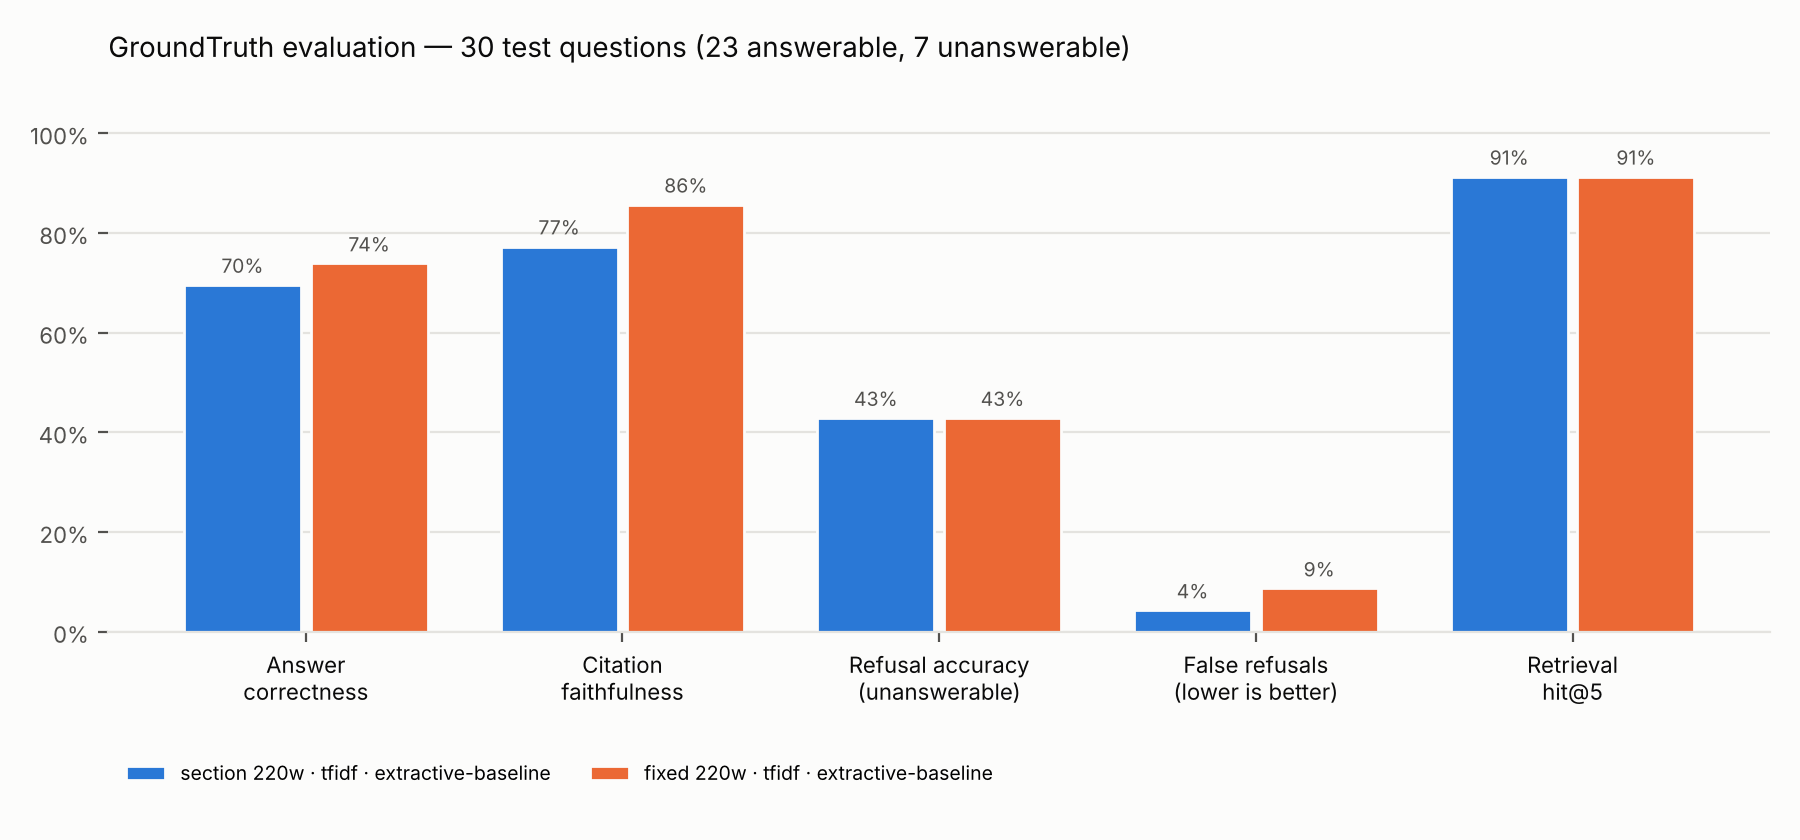
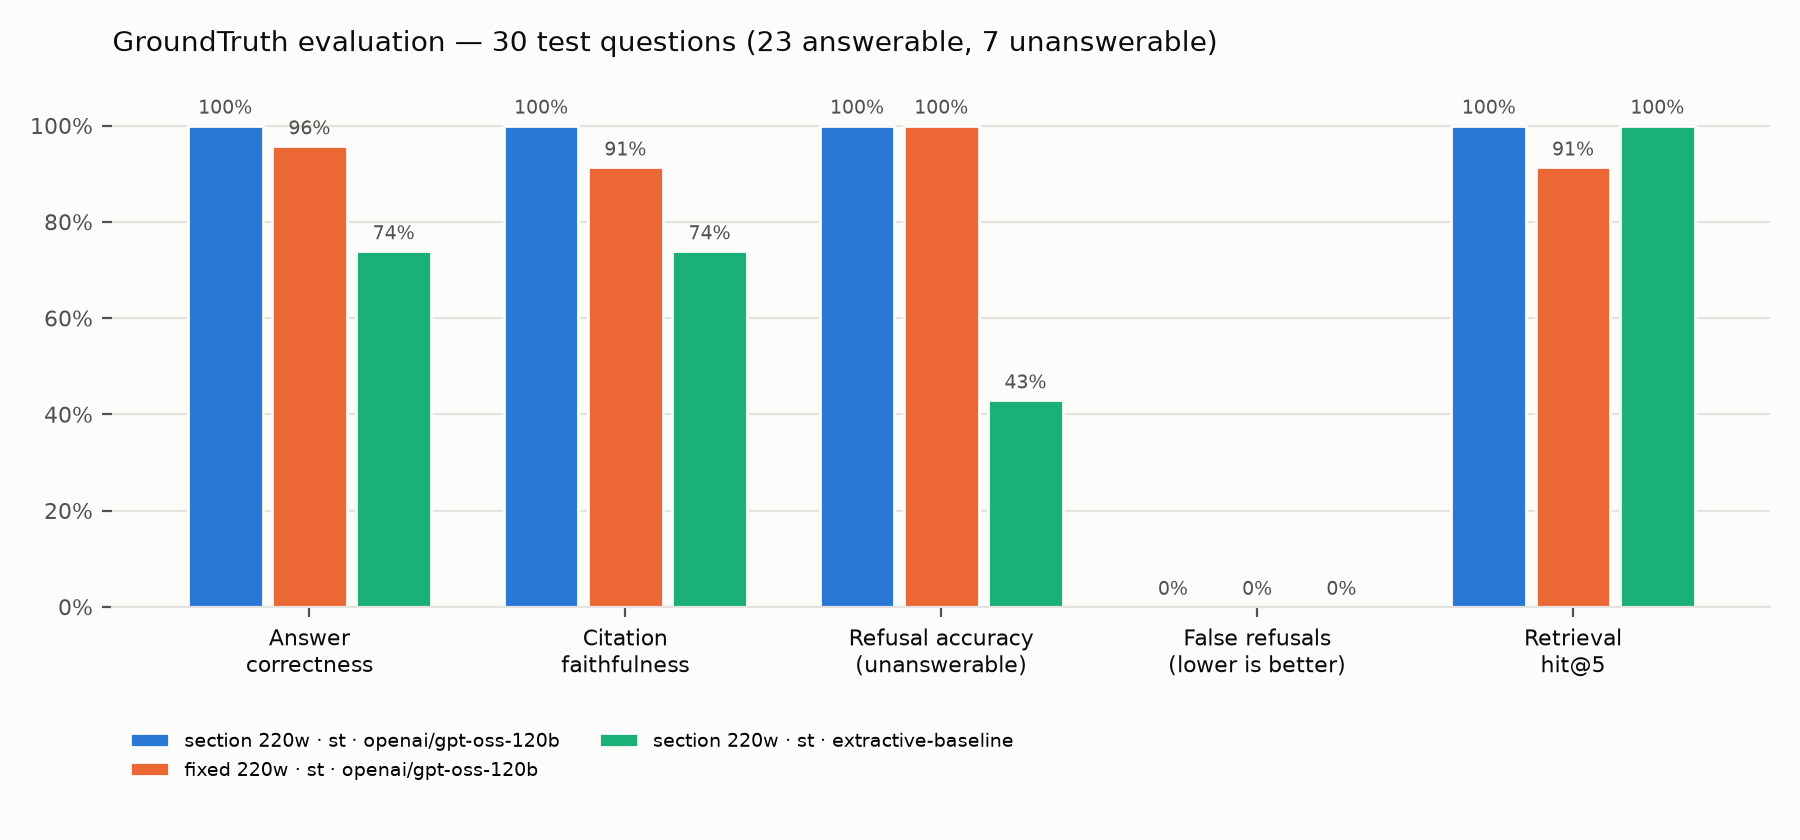
Demo verified, eval results

diff --git a/groundtruth/llm.py b/groundtruth/llm.py
@@ -8,6 +8,7 @@
 """
 from __future__ import annotations
 
+import re
 import time
 
 import requests
@@ -29,12 +30,15 @@ class BaseLLM:
         raise NotImplementedError
 
 
-def _post_with_retry(url, headers, payload, timeout, tries=3):
+def _post_with_retry(url, headers, payload, timeout, tries=8):
+    """Retry network errors and rate limits (HTTP 429), waiting as long as the
+    provider asks. Free tiers like Groq's cap tokens per minute."""
     last = None
     for attempt in range(tries):
+        wait = min(60, 2 ** attempt)
         try:
             r = requests.post(url, headers=headers, json=payload, timeout=timeout)
-        except requests.RequestException as e:  # network blip
+        except requests.RequestException as e:
             last = e
         else:
             if r.status_code < 400:
@@ -42,7 +46,10 @@ def _post_with_retry(url, headers, payload, timeout, tries=3):
             last = LLMError(f"HTTP {r.status_code}: {r.text[:300]}")
             if r.status_code not in (408, 429, 500, 502, 503, 504):
                 break
-        time.sleep(2 ** attempt)
+            m = re.search(r"try again in ([\d.]+)(ms|s)", r.text)
+            if m:
+                wait = float(m.group(1)) / (1000 if m.group(2) == "ms" else 1) + 1
+        time.sleep(wait)
     raise LLMError(str(last))
 
 

diff --git a/groundtruth/rag.py b/groundtruth/rag.py
@@ -98,6 +98,15 @@ def parse_citations(text: str, k: int) -> list[int]:
     return seen
 
 
+
+def normalize_citations(text: str) -> str:
+    """Models cite in different styles: 【1】, [1†L3-L5], [Passage 1], [Source 2].
+    Rewrite them all to [n] so the citation gate and the UI treat them the same."""
+    text = re.sub(r"【\s*(\d+)[^】]*】", r"[\1]", text)
+    text = re.sub(r"\[(\d+)†[^\]]*\]", r"[\1]", text)
+    text = re.sub(r"\[(?:passage|source|doc(?:ument)?)\s*#?(\d+)[^\]]*\]", r"[\1]", text, flags=re.I)
+    return text
+
 def is_refusal(text: str) -> bool:
     return bool(_IDK_RE.match(text.strip()))
 
@@ -193,6 +202,7 @@ class GroundTruth:
         user = f"Passages:\n\n{format_passages(hits)}\n\nQuestion: {question}"
         try:
             raw = self.llm.complete(SYSTEM_PROMPT, user)
+            raw = normalize_citations(raw)
         except LLMError as e:
             return done(f"{IDK} (The language model could not be reached: {e})", True,
                         "llm_error", str(e))

diff --git a/eval/make_questions.py b/eval/make_questions.py
@@ -141,7 +141,7 @@ TEST = [
     dict(id="t23", question="What counts as a 'large team gathering' that needs the event request process instead of an approval email?",
          answerable=True, category="single_fact", stakes="medium",
          reference="Over 6 employees traveling for an internal management meeting and/or more than $10,000 in estimated group travel expenses.",
-         key_facts=[["6"], ["10,000", "10000", "$10k"]],
+         key_facts=[["6", "six"], ["10,000", "10000", "$10k"]],
          evidence=["over 6 employees traveling for an internal management meeting"], source="travel-guide-faq.md"),
 
     # ---------------------------------------------------- unanswerable ----

diff --git a/eval/results/report.md b/eval/results/report.md
@@ -2,17 +2,17 @@
 
 Test set: 30 hand-written questions (23 answerable, 7 deliberately unanswerable), written before looking at model output. Definitions are in `groundtruth/evaluation.py`.
 
-| Metric | `test-section220-tfidf-nollm` | `test-fixed220-tfidf-nollm` |
-|---|---|---|
-| answer_correctness | 0.696 | 0.739 |
-| citation_faithfulness | 0.773 | 0.857 |
-| refusal_accuracy | 0.429 | 0.429 |
-| false_refusal_rate | 0.043 | 0.087 |
-| retrieval_hit@5 | 0.913 | 0.913 |
-| sentence_support_rate | 1.0 | 1.0 |
-| mrr | 0.775 | 0.79 |
-| harm_weighted_error | 0.333 | 0.302 |
-| avg_latency_s | 0.0 | 0.0 |
+| Metric | `test-section220-main` | `test-fixed220-baseline` | `test-section220-nollm` |
+|---|---|---|---|
+| answer_correctness | 1.0 | 0.957 | 0.739 |
+| citation_faithfulness | 1.0 | 0.913 | 0.739 |
+| refusal_accuracy | 1.0 | 1.0 | 0.429 |
+| false_refusal_rate | 0.0 | 0.0 | 0.0 |
+| retrieval_hit@5 | 1.0 | 0.913 | 1.0 |
+| sentence_support_rate | 1.0 | 0.978 | 1.0 |
+| mrr | 0.837 | 0.797 | 0.837 |
+| harm_weighted_error | 0.0 | 0.032 | 0.317 |
+| avg_latency_s | 5.61 | 9.68 | 0.07 |
 
 ![metrics](metrics.png)
 
@@ -22,6 +22,12 @@ Test set: 30 hand-written questions (23 answerable, 7 deliberately unanswerable)
 
 | Embedder | Chunker | Size (words) | Chunks | Hit@1 | Hit@3 | Hit@5 | MRR | AUROC | Missed |
 |---|---|---|---|---|---|---|---|---|---|
+| st | fixed | 120 | 251 | 56% | 87% | 87% | 0.70 | 0.93 | t18,t20,t22 |
+| st | fixed | 220 | 118 | 70% | 91% | 91% | 0.80 | 0.82 | t18,t20 |
+| st | fixed | 400 | 64 | 56% | 78% | 87% | 0.67 | 0.86 | t11,t19,t20 |
+| st | section | 120 | 254 | 74% | 100% | 100% | 0.86 | 0.96 | — |
+| st | section | 220 | 178 | 70% | 96% | 100% | 0.84 | 0.96 | — |
+| st | section | 400 | 148 | 74% | 96% | 100% | 0.86 | 0.99 | — |
 | tfidf | fixed | 120 | 251 | 70% | 78% | 83% | 0.74 | 0.92 | t15,t16,t18,t20 |
 | tfidf | fixed | 220 | 118 | 70% | 91% | 91% | 0.79 | 0.91 | t18,t20 |
 | tfidf | fixed | 400 | 64 | 83% | 91% | 96% | 0.87 | 0.92 | t20 |
@@ -33,35 +39,31 @@ Test set: 30 hand-written questions (23 answerable, 7 deliberately unanswerable)
 
 ## Failure log
 
-### Failures — `test-section220-tfidf-nollm`
+### Failures — `test-section220-main`
 
 | ID | Outcome | Question | What it said | Top score |
 |---|---|---|---|---|
-| t02 | wrong_answer | I've been a federal employee for 5 years. How much annual leave do I earn each pay period? | You will earn 56 more annual leave hours (14 pay periods x 4 hours per pay period). [2] You earn 4 annual leave hours per pay period and there are 14 pay period… | 0.367 |
-| t09 | wrong_answer | If I'm approved for administrative leave to vote on election day, what is the maximum amount of time I can take? | In rare circumstances, authorized agency officials may approve limited amounts of administrative leave on election day when there is no reasonable opportunity f… | 0.3113 |
-| t11 | wrong_answer | When does regular comp time expire, and what happens to it if I leave GSA? | If you leave GSA, any unused travel comp time will be forfeited. [1] If you leave GSA, your comp time will be paid out. [2] | 0.2641 |
-| t14 | wrong_answer | How long do I need to have worked for the federal government to be eligible for FMLA? | Annual leave accrues based on how long you’ve worked for the federal government:. [2] PPL is how the federal government implements FMLA for parental leave. [1] | 0.1764 |
-| t16 | retrieval_miss | After paid parental leave, how long do I have to agree to return to work? | TTS has paid parental leave (PPL) for the birth or placement (adoption or foster care) of a child. [1] Refer to the Paid Parental Leave page for more informatio… | 0.2881 |
-| t17 | correct_bad_citation | How much bereavement leave can I use per year for a civilian family member, and how much funeral leave do I get for an immediate relative's combat-related death? | You can use up to 13 days (104 hours) per year of your sick leave for bereavement, funeral planning, and/or attending the funeral of a family member. [2] You ca… | 0.4455 |
-| t18 | false_refusal | Above what dollar amount do I need a receipt for a travel expense? | I don't know — the documents I have don't cover this. | 0.134 |
-| t20 | correct_bad_citation | How soon after returning from a trip should I submit my travel voucher? | While use of the GSA travel card is required for all travel expenses when practicable, using the GSA travel card to pay for M&IE requires some additional admini… | 0.1399 |
-| t23 | wrong_answer | What counts as a 'large team gathering' that needs the event request process instead of an approval email? | You must formally request your authorizing official's approval* via email and forward it to tts-travel@gsa.gov, unless you are traveling to a training, conferen… | 0.2886 |
-| u01 | hallucinated | What is the maximum per diem lodging rate for a hotel in Chicago? | As long as all lodging and meals expenses are within the maximum per diem rate for the location, and direct rental car costs (not including gas/tolls) are not m… | 0.2165 |
-| u02 | hallucinated | What is the daily meals and incidental expenses rate in Boston? | The allowance for Meals and Incidental Expenses (M&IE) is a flat rate given to a traveler regardless of what they actually spent. [1] How should I claim meals a… | 0.3117 |
-| u05 | hallucinated | How many paid federal holidays do GSA employees get each year? | If you are a new federal employee, check out the recommendations for those who have less than 1 year of federal service. - You need to be approved for PPL befor… | 0.1248 |
-| u07 | hallucinated | Can I expense a pet boarding fee while I'm on official travel? | Include language that specifies which days will be at your own expense, and acknowledge that "I understand all other travel expenses including lodging and meals… | 0.1427 |
 
-### Failures — `test-fixed220-tfidf-nollm`
+### Failures — `test-fixed220-baseline`
 
 | ID | Outcome | Question | What it said | Top score |
 |---|---|---|---|---|
-| t09 | wrong_answer | If I'm approved for administrative leave to vote on election day, what is the maximum amount of time I can take? | In rare circumstances, authorized agency officials may approve limited amounts of administrative leave on election day when there is no reasonable opportunity f… | 0.2929 |
-| t11 | wrong_answer | When does regular comp time expire, and what happens to it if I leave GSA? | If you leave GSA, any unused travel comp time will be forfeited. [1] If you leave GSA, your comp time will be paid out. [2] | 0.1811 |
-| t16 | wrong_answer | After paid parental leave, how long do I have to agree to return to work? | Submitting paid parental leave requests in HR Links After your Workforce Relations HR Specialist reviews your supporting documentation, you will see a new leave… | 0.1768 |
-| t18 | retrieval_miss | Above what dollar amount do I need a receipt for a travel expense? | I don't know — the documents I have don't cover this. | 0.1534 |
-| t20 | retrieval_miss | How soon after returning from a trip should I submit my travel voucher? | I don't know — the documents I have don't cover this. | 0.1091 |
-| t23 | wrong_answer | What counts as a 'large team gathering' that needs the event request process instead of an approval email? | How to secure authorizing official approval You must formally request your authorizing official's approval* via email and forward it to tts-travel@gsa.gov, unle… | 0.2349 |
-| u01 | hallucinated | What is the maximum per diem lodging rate for a hotel in Chicago? | An increase in overall trip cost that is within 120% of the originally authorized amount.* As long as all lodging and meals expenses are within the maximum per … | 0.197 |
-| u02 | hallucinated | What is the daily meals and incidental expenses rate in Boston? | Questions about entering specific expenses How should I claim meals and incidental expenses? - The allowance for Meals and Incidental Expenses (M&IE) is a flat … | 0.2067 |
-| u03 | hallucinated | What is the reimbursement rate per mile for using my personal car on official travel? | Brief overview of vouchers You may be reimbursed for your expenses from official travel, or any other approved expense paid for via personal funds (such as reim… | 0.1223 |
-| u07 | hallucinated | Can I expense a pet boarding fee while I'm on official travel? | same cost; no underage drivers’ fee for drivers between the ages of 18-25; no minimum rental period; no cost for additional drivers; and full coverage insurance… | 0.1216 |
+| t18 | correct_bad_citation | Above what dollar amount do I need a receipt for a travel expense? | Receipts are required for any expense that exceeds $75 (and for local‑voucher expenses the threshold is $25)[1][2]. | 0.553 |
+| t20 | retrieval_miss | How soon after returning from a trip should I submit my travel voucher? | You may submit your travel voucher for reimbursement as soon as you return from your trip[4]. | 0.6421 |
+
+### Failures — `test-section220-nollm`
+
+| ID | Outcome | Question | What it said | Top score |
+|---|---|---|---|---|
+| t02 | wrong_answer | I've been a federal employee for 5 years. How much annual leave do I earn each pay period? | You will earn 56 more annual leave hours (14 pay periods x 4 hours per pay period). [2] You earn 4 annual leave hours per pay period and there are 14 pay period… | 0.6872 |
+| t09 | wrong_answer | If I'm approved for administrative leave to vote on election day, what is the maximum amount of time I can take? | In rare circumstances, authorized agency officials may approve limited amounts of administrative leave on election day when there is no reasonable opportunity f… | 0.634 |
+| t11 | wrong_answer | When does regular comp time expire, and what happens to it if I leave GSA? | If you leave GSA, any unused travel comp time will be forfeited. [1] If you leave GSA, your comp time will be paid out. [2] | 0.7572 |
+| t16 | wrong_answer | After paid parental leave, how long do I have to agree to return to work? | Refer to the Paid Parental Leave page for more information, including requesting PPL. [1] Paid Parental Leave. [1] | 0.624 |
+| t17 | correct_bad_citation | How much bereavement leave can I use per year for a civilian family member, and how much funeral leave do I get for an immediate relative's combat-related death? | You can use up to 13 days (104 hours) per year of your sick leave for bereavement, funeral planning, and/or attending the funeral of a family member. [2] You ca… | 0.7349 |
+| t18 | wrong_answer | Above what dollar amount do I need a receipt for a travel expense? | Follow the guidance above for keeping receipts, and also be mindful of budget-- do not exceed the overall amount budgeted for your travel in your authorization … | 0.711 |
+| t20 | correct_bad_citation | How soon after returning from a trip should I submit my travel voucher? | For vouchers, reimbursement will be issued to your personal account and travel card 3-5 business days after travel team approval. [1] Your voucher will be revie… | 0.6665 |
+| t23 | wrong_answer | What counts as a 'large team gathering' that needs the event request process instead of an approval email? | Instead of obtaining an email of approval, you must follow the event request process. [1] Authorizing official approval is secured via the event request process… | 0.5991 |
+| u01 | hallucinated | What is the maximum per diem lodging rate for a hotel in Chicago? | In the side bar you can filter your search results to only those under the Per diem rate by checking Hide hotels over Per Diem limit ($XXX.00). [1] Box 1: Autho… | 0.6243 |
+| u02 | hallucinated | What is the daily meals and incidental expenses rate in Boston? | The allowance for Meals and Incidental Expenses (M&IE) is a flat rate given to a traveler regardless of what they actually spent. [1] How should I claim meals a… | 0.5311 |
+| u04 | hallucinated | Can I fly business class on an international flight longer than 14 hours? | Keep in mind that in addition to the $35 fee for using AdTrav, and flights available on other airlines may be more expensive and could strain your project or un… | 0.4197 |
+| u07 | hallucinated | Can I expense a pet boarding fee while I'm on official travel? | Laundry expenses, if official travel is at least 4 nights. [2] | 0.4923 |

diff --git a/eval/results/chunking_comparison.md b/eval/results/chunking_comparison.md
@@ -1,5 +1,11 @@
 | Embedder | Chunker | Size (words) | Chunks | Hit@1 | Hit@3 | Hit@5 | MRR | AUROC | Missed |
 |---|---|---|---|---|---|---|---|---|---|
+| st | fixed | 120 | 251 | 56% | 87% | 87% | 0.70 | 0.93 | t18,t20,t22 |
+| st | fixed | 220 | 118 | 70% | 91% | 91% | 0.80 | 0.82 | t18,t20 |
+| st | fixed | 400 | 64 | 56% | 78% | 87% | 0.67 | 0.86 | t11,t19,t20 |
+| st | section | 120 | 254 | 74% | 100% | 100% | 0.86 | 0.96 | — |
+| st | section | 220 | 178 | 70% | 96% | 100% | 0.84 | 0.96 | — |
+| st | section | 400 | 148 | 74% | 96% | 100% | 0.86 | 0.99 | — |
 | tfidf | fixed | 120 | 251 | 70% | 78% | 83% | 0.74 | 0.92 | t15,t16,t18,t20 |
 | tfidf | fixed | 220 | 118 | 70% | 91% | 91% | 0.79 | 0.91 | t18,t20 |
 | tfidf | fixed | 400 | 64 | 83% | 91% | 96% | 0.87 | 0.92 | t20 |
